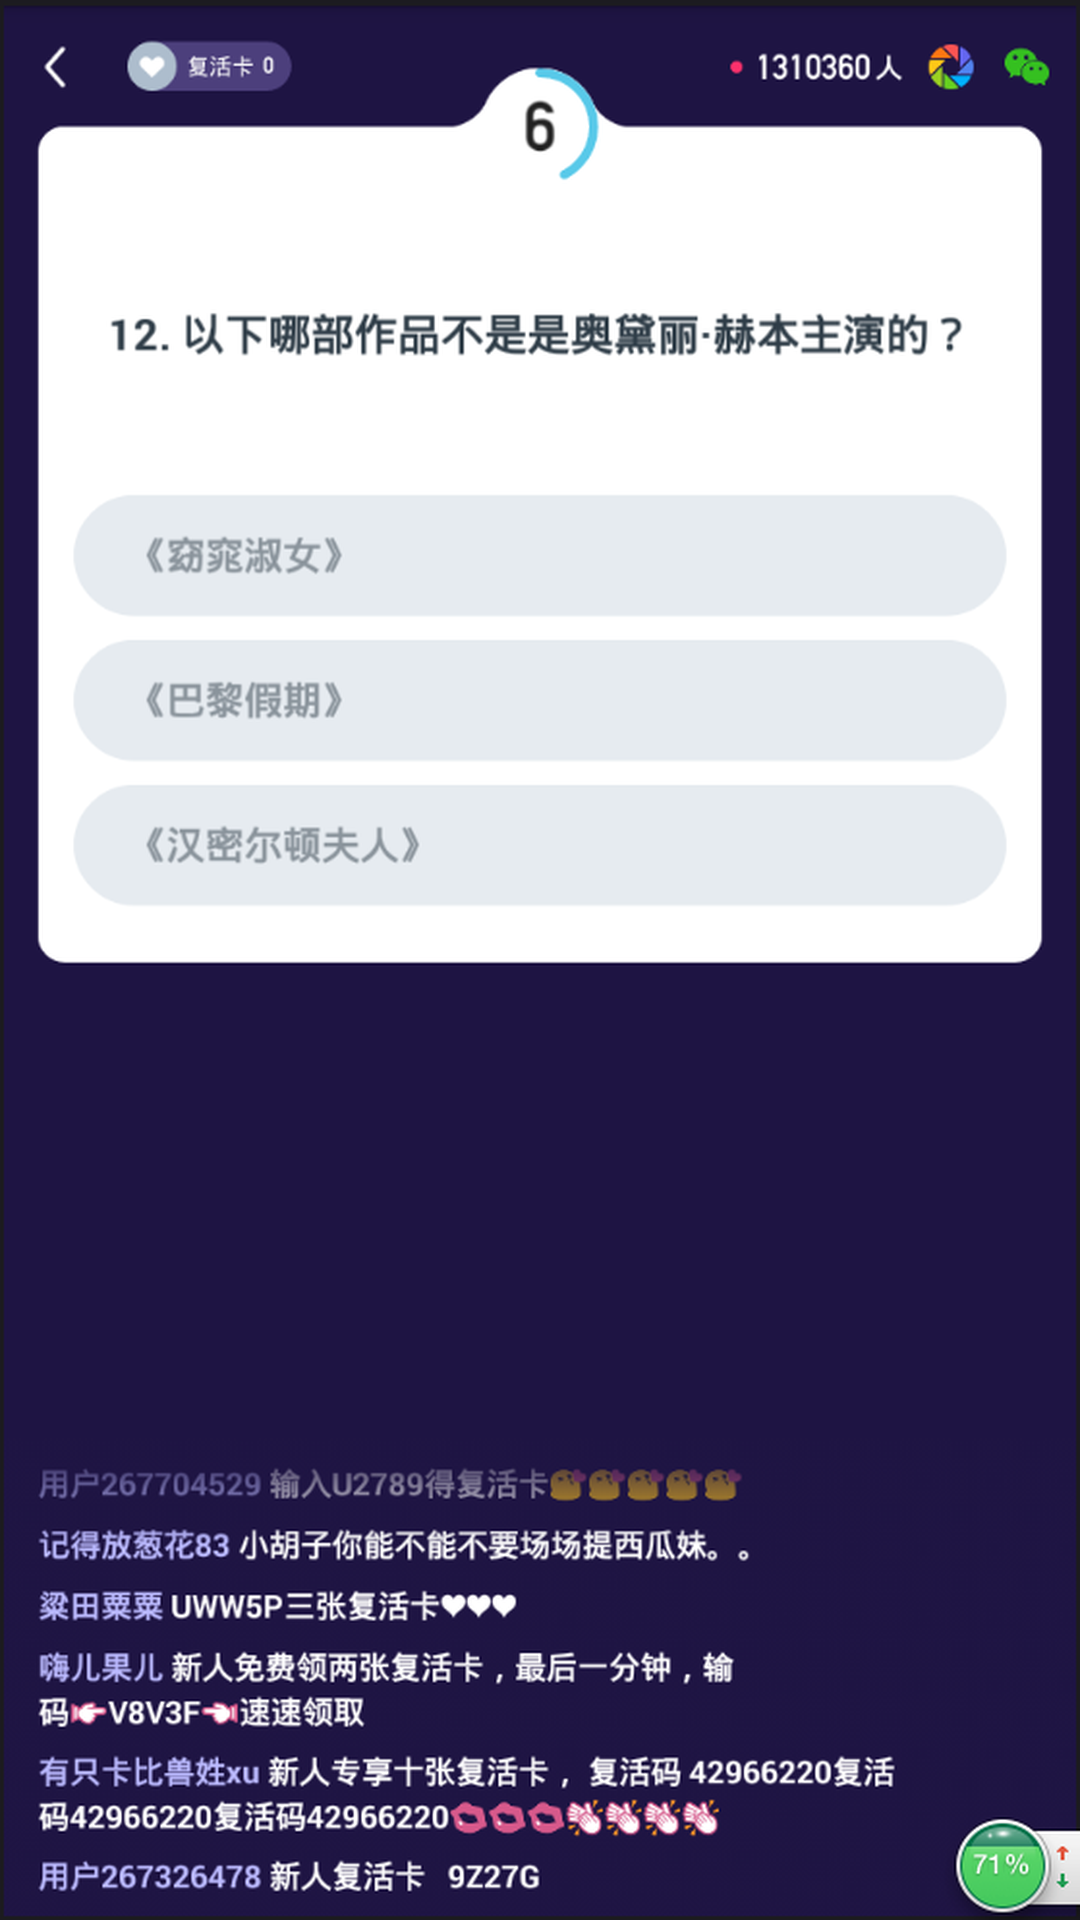
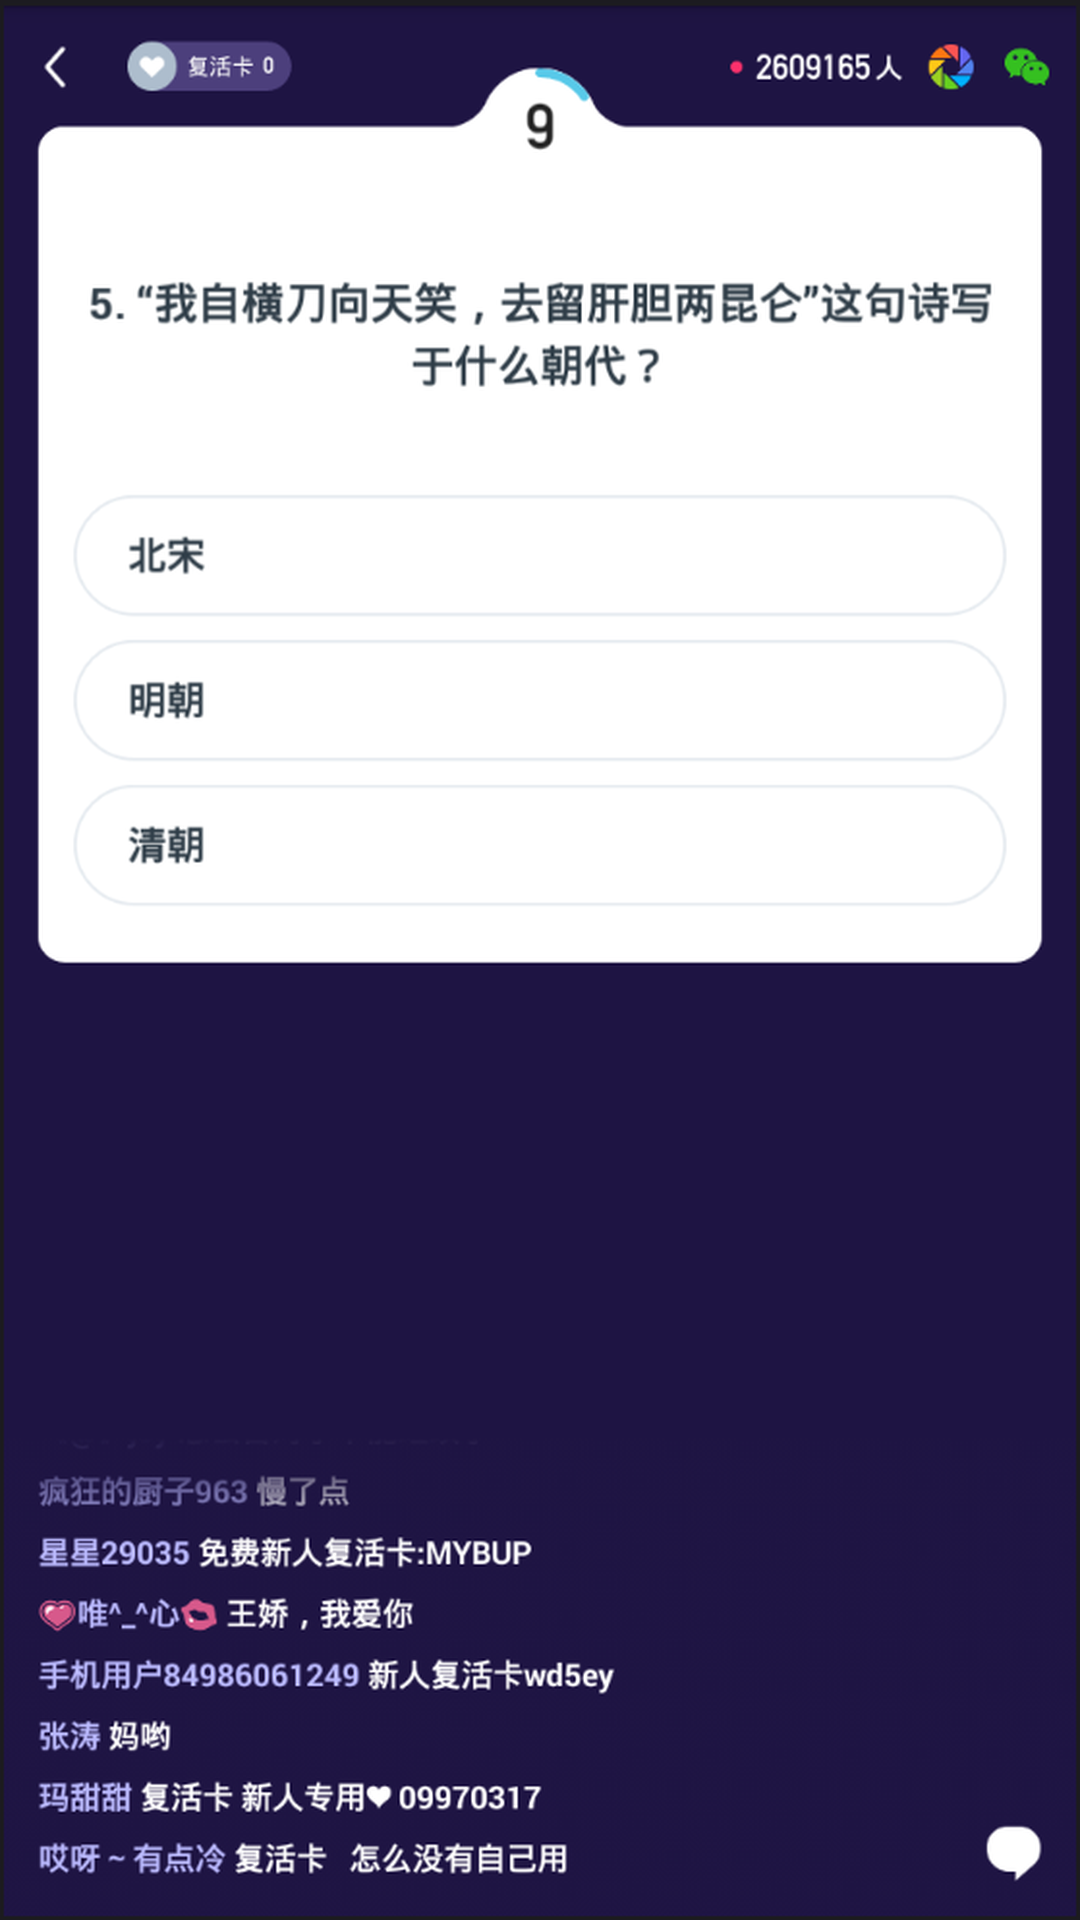
修改为百度搜索，选项合并为一张图来识别，速度提升4秒

diff --git a/core/orc.py b/core/orc.py
@@ -1,61 +1,47 @@
 import os
 from PIL import Image
 from aip import AipOcr
+from time import strftime
 
 class orc(object):
     
     def __init__(self, app_id, api_key, secret_key):
         self.__client = AipOcr(appId=app_id, apiKey=api_key, secretKey=secret_key)
-        self.__client.setConnectionTimeoutInMillis(5000)
+        self.__client.setConnectionTimeoutInMillis(3000)
     
 
     def get_result(self):
+        print(strftime("%Y-%m-%d %H:%M:%S") + " 开始识别", flush=True)
         options = {}
         options['language_type'] = 'CHN_ENG'
 
+        # 获取问题
         img_question = self.__get_image_content(filename='screenshot_question.png')
         question_dist = self.__client.basicGeneral(img_question, options)
         if 'error_code' in question_dist:
             print(question_dist)
-            return ''
+            return '', ''
         else:
-            question = question_dist['words_result'][0]['words']
+            question = ''
+            for pair in question_dist['words_result']:
+                question = question + pair['words']
             index = question.find('.') + 1
             question = question[index:]
             # print(question)
         
+        # 获取选项
         choices = []
-        img_a = self.__get_image_content(filename='screenshot_a.png')
-        a_dist = self.__client.basicGeneral(img_a, options)
-        if 'error_code' in a_dist:
-            print(a_dist)
-            return ''
+        img_choices = self.__get_image_content(filename='screenshot_choices.png')
+        choices_dist = self.__client.basicGeneral(img_choices, options)        
+        if 'error_code' in choices:
+            print(choices)
+            return '', ''
         else:
-            a = a_dist['words_result'][0]['words']
-            choices.append(a)
-            # print(a)
-
-
-        img_b = self.__get_image_content(filename='screenshot_b.png')
-        b_dist = self.__client.basicGeneral(img_b, options)
-        if 'error_code' in b_dist:
-            print(b_dist)
-            return ''
-        else:
-            b = b_dist['words_result'][0]['words']
-            choices.append(b)
-            # print(b)
-
-        img_c = self.__get_image_content(filename='screenshot_c.png')
-        c_dist = self.__client.basicGeneral(img_c, options)        
-        if 'error_code' in c_dist:
-            print(c_dist)
-            return ''
-        else:
-            c = c_dist['words_result'][0]['words']
-            choices.append(c)
+            for pair in choices_dist['words_result']:
+                choices.append(pair['words'])
             # print(c)
         
+        print(strftime("%Y-%m-%d %H:%M:%S") + " 识别结束", flush=True)
         return question, choices
 
 

diff --git a/main.py b/main.py
@@ -2,9 +2,10 @@ from core.orc import orc
 from core.screenshot import capture_screen
 from selenium import webdriver
 from selenium.webdriver.common.keys import Keys
+from time import strftime, clock
 
 browser = webdriver.Chrome(r'.\utils\chromedriver.exe')
-browser.get('https://www.google.com')
+browser.get('https://www.baidu.com')
 
 while True:
 
@@ -12,19 +13,26 @@ while True:
     if go == 'n':
         break
 
+    print(strftime("%Y-%m-%d %H:%M:%S") + " 开始答题", flush=True)
+    start = clock()
+
     capture_screen()
 
     o = orc(app_id='10689024', api_key='ABTXXPeylq1B6cUp0CdDoxlP', secret_key='dnuV0MfxVI9xIZtewfdA3qutGTPAflzS')
 
     question, choices = o.get_result()
     keyword = question + ' '
-    for str in choices:
-        keyword = keyword + str + ' '
+    for s in choices:
+        keyword = keyword + s + ' '
 
+    print(strftime("%Y-%m-%d %H:%M:%S") + " 开始搜索", flush=True)
     print(keyword)
-    elem = browser.find_element_by_id("lst-ib")
+    elem = browser.find_element_by_id("kw")
     elem.clear()
     elem.send_keys(keyword)
     elem.send_keys(Keys.RETURN)
+    print(strftime("%Y-%m-%d %H:%M:%S") + " 结束搜索", flush=True)
+    cnt = clock() - start
+    print(strftime("%Y-%m-%d %H:%M:%S") + " 结束答题，用时" + str(cnt) + "s", flush=True)
 
     print('----------------------------------')

diff --git a/core/screenshot.py b/core/screenshot.py
@@ -5,6 +5,7 @@ import win32gui
 import win32con
 from win32com import client
 from PIL import Image, ImageGrab
+from time import strftime
 
 class RECT(ctypes.Structure):
     _fields_ = [('left', ctypes.c_long), 
@@ -16,23 +17,18 @@ class RECT(ctypes.Structure):
 
 
 def process_image(directory='screenshots', filename='screenshot.png'):
+    print(strftime("%Y-%m-%d %H:%M:%S") + " 开始处理图片", flush=True)
     img = Image.open(os.path.join(directory, filename))
 
     # 问题
-    img_question = img.crop((50, 300, 1000, 500))
+    img_question = img.crop((50, 200, 1000, 400))
     img_question.save(os.path.join(directory, 'screenshot_question.png'))
 
-    # 选项A
-    img_a = img.crop((100, 500, 800, 600))
-    img_a.save(os.path.join(directory, 'screenshot_a.png'))    
+    # 选项们
+    img_choices = img.crop((100, 500, 800, 900))
+    img_choices.save(os.path.join(directory, 'screenshot_choices.png'))
 
-    # 选项B
-    img_b = img.crop((100, 650, 800, 750))
-    img_b.save(os.path.join(directory, 'screenshot_b.png'))
-
-    # 选项C
-    img_c = img.crop((100, 800, 800, 900))
-    img_c.save(os.path.join(directory, 'screenshot_c.png'))   
+    print(strftime("%Y-%m-%d %H:%M:%S") + " 处理图片结束", flush=True)
 
 
 def capture_screen(directory='screenshots', filename='screenshot.png'):

diff --git a/tests/test_main.py b/tests/test_main.py
@@ -1,0 +1,31 @@
+from selenium import webdriver
+from selenium.webdriver.common.keys import Keys
+from time import strftime, clock
+from context import core
+from core.orc import orc
+from core.screenshot import process_image
+
+browser = webdriver.Chrome(r'.\utils\chromedriver.exe')
+browser.get('https://www.baidu.com')
+
+print(strftime("%Y-%m-%d %H:%M:%S") + " 开始答题", flush=True)
+start = clock()
+
+process_image(filename='screenshot_test.png')
+
+o = orc(app_id='10689024', api_key='ABTXXPeylq1B6cUp0CdDoxlP', secret_key='dnuV0MfxVI9xIZtewfdA3qutGTPAflzS')
+
+question, choices = o.get_result()
+keyword = question + ' '
+for s in choices:
+    keyword = keyword + s + ' '
+
+print(strftime("%Y-%m-%d %H:%M:%S") + " 开始搜索", flush=True)
+print(keyword)
+elem = browser.find_element_by_id("kw")
+elem.clear()
+elem.send_keys(keyword)
+elem.send_keys(Keys.RETURN)
+print(strftime("%Y-%m-%d %H:%M:%S") + " 结束搜索", flush=True)
+cnt = clock() - start
+print(strftime("%Y-%m-%d %H:%M:%S") + " 结束答题，用时" + str(cnt) + "s", flush=True)

diff --git a/tests/test_orc.py b/tests/test_orc.py
@@ -1,7 +1,6 @@
 import unittest
 import os
 from PIL import Image
-# from core.screenshot import capture_screen
 from context import core
 from core.orc import orc
 
